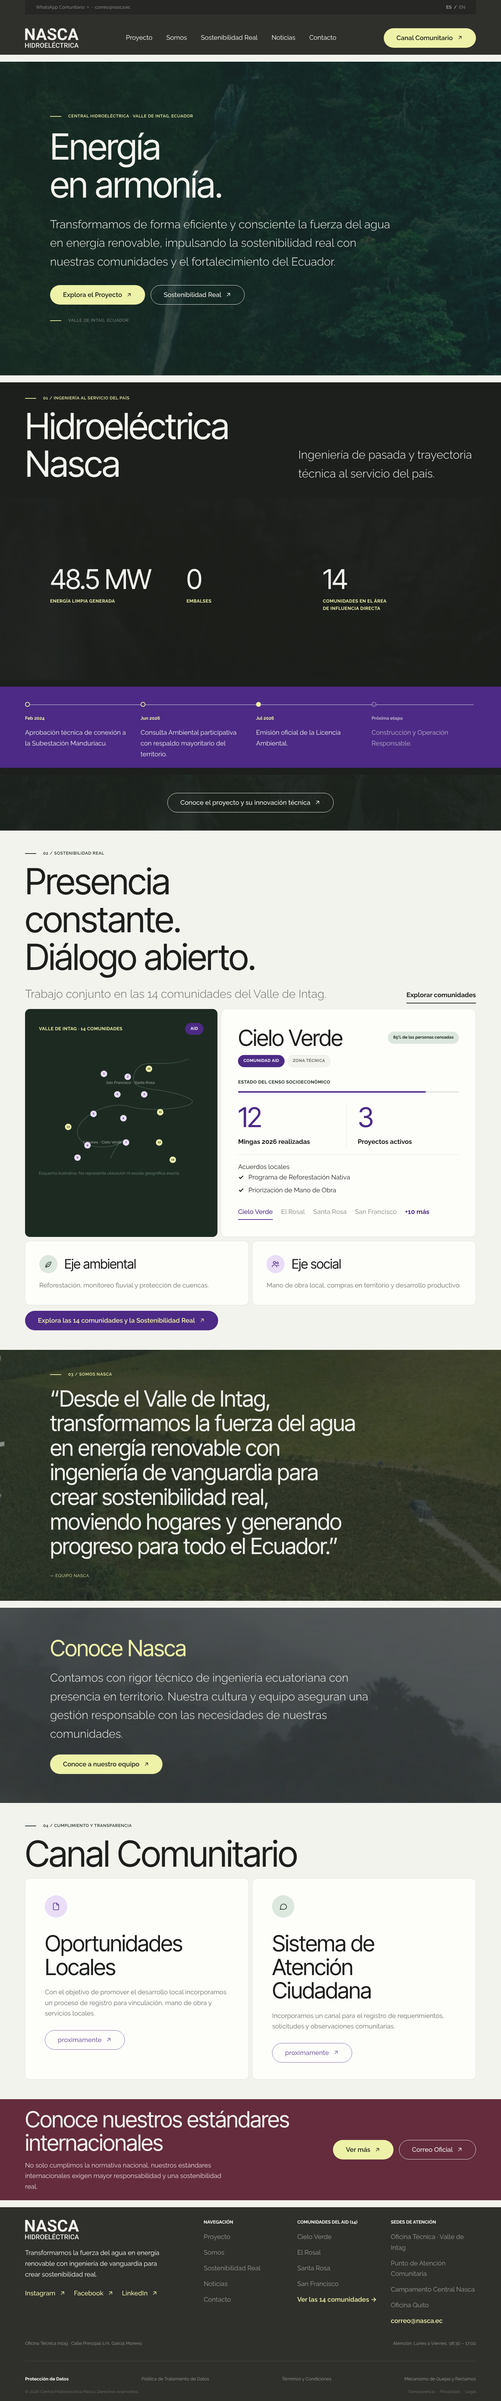
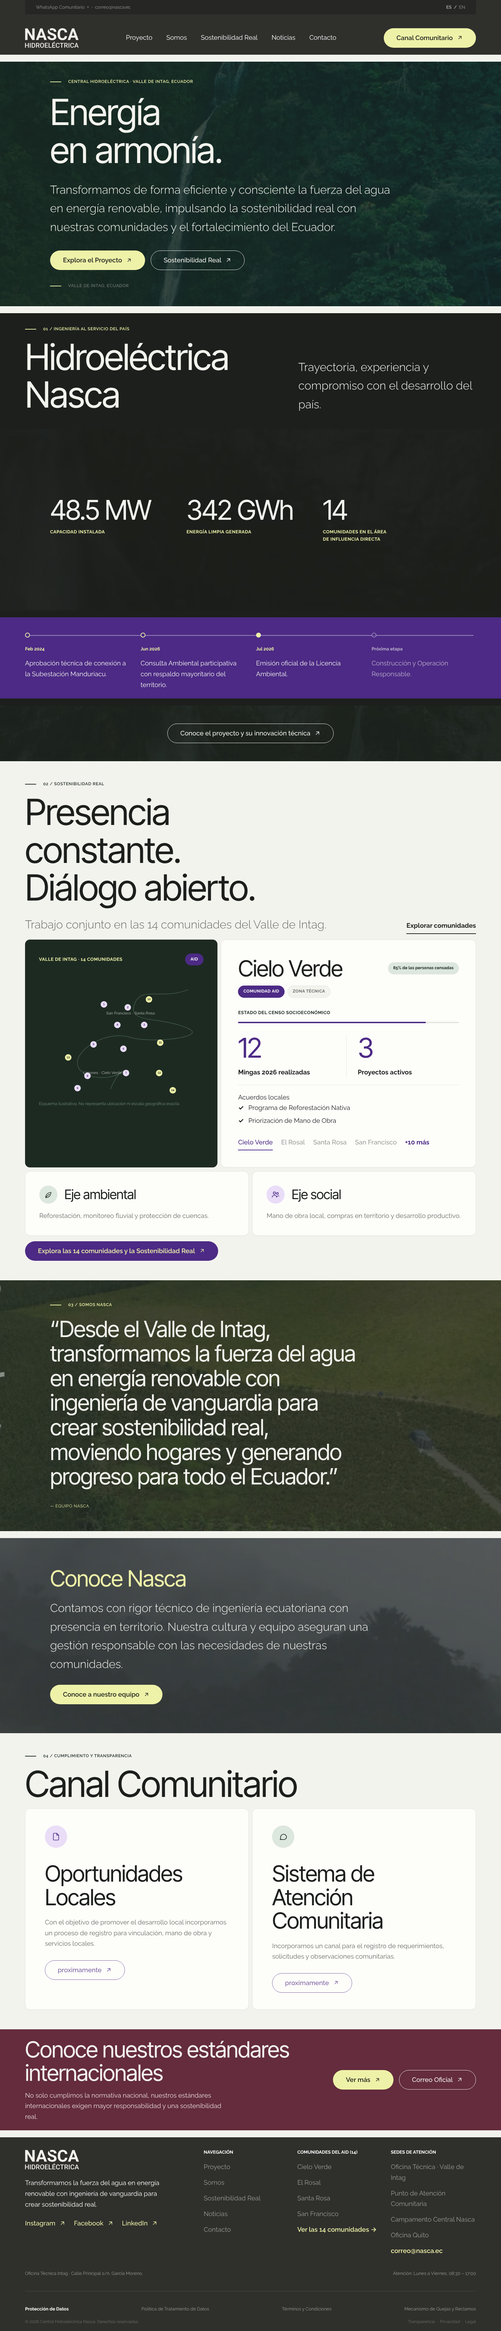
Responsive completo (tablet y móvil) y textos del home según el diseño
Cabecera: menú centrado bajo el logo en tablet, fila única con hamburguesa
en móvil y CTA dentro del menú desplegable. Pie en 2+2 columnas en tablet
y una en móvil. Mapa apilado sobre la tarjeta de comunidad, CTA vino en
una columna y cifras sin cortes de línea en anchos intermedios.

Textos del home alineados con el PDF del diseño: cifras 48.5 MW /
342 GWh / 14, subtítulo de la sección 01 y tarjeta Sistema de Atención
Comunitaria. Hero más compacto. Preview estático regenerado.

Claude-Session: https://claude.ai/code/session_01R18yvyAcKG3W4xP4nnuw73

diff --git a/docs/index.html b/docs/index.html
@@ -183,7 +183,7 @@ ol,ul{box-sizing:border-box}:root :where(.wp-block-list.has-background){padding:
 							<div class="wp-block-navigation__responsive-container-content" 
 				data-wp-watch="callbacks.focusFirstElement"
 			 id="modal-1-content">
-								<ul class="wp-block-navigation__container is-responsive items-justified-center wp-block-navigation"><li class=" wp-block-navigation-item wp-block-navigation-link"><a class="wp-block-navigation-item__content"  href="/proyecto/"><span class="wp-block-navigation-item__label">Proyecto</span></a></li><li class=" wp-block-navigation-item wp-block-navigation-link"><a class="wp-block-navigation-item__content"  href="/somos/"><span class="wp-block-navigation-item__label">Somos</span></a></li><li class=" wp-block-navigation-item wp-block-navigation-link"><a class="wp-block-navigation-item__content"  href="/sostenibilidad-real/"><span class="wp-block-navigation-item__label">Sostenibilidad Real</span></a></li><li class=" wp-block-navigation-item wp-block-navigation-link"><a class="wp-block-navigation-item__content"  href="/noticias/"><span class="wp-block-navigation-item__label">Noticias</span></a></li><li class=" wp-block-navigation-item wp-block-navigation-link"><a class="wp-block-navigation-item__content"  href="/contacto/"><span class="wp-block-navigation-item__label">Contacto</span></a></li></ul>
+								<ul class="wp-block-navigation__container is-responsive items-justified-center wp-block-navigation"><li class=" wp-block-navigation-item wp-block-navigation-link"><a class="wp-block-navigation-item__content"  href="/proyecto/"><span class="wp-block-navigation-item__label">Proyecto</span></a></li><li class=" wp-block-navigation-item wp-block-navigation-link"><a class="wp-block-navigation-item__content"  href="/somos/"><span class="wp-block-navigation-item__label">Somos</span></a></li><li class=" wp-block-navigation-item wp-block-navigation-link"><a class="wp-block-navigation-item__content"  href="/sostenibilidad-real/"><span class="wp-block-navigation-item__label">Sostenibilidad Real</span></a></li><li class=" wp-block-navigation-item wp-block-navigation-link"><a class="wp-block-navigation-item__content"  href="/noticias/"><span class="wp-block-navigation-item__label">Noticias</span></a></li><li class=" wp-block-navigation-item wp-block-navigation-link"><a class="wp-block-navigation-item__content"  href="/contacto/"><span class="wp-block-navigation-item__label">Contacto</span></a></li><li class=" wp-block-navigation-item nasca-nav-cta wp-block-navigation-link"><a class="wp-block-navigation-item__content"  href="/canal-comunitario/"><span class="wp-block-navigation-item__label">Canal Comunitario</span></a></li></ul>
 							</div>
 						</div>
 					</div>
@@ -207,7 +207,7 @@ ol,ul{box-sizing:border-box}:root :where(.wp-block-list.has-background){padding:
 
 <main class="wp-block-group is-layout-flow wp-block-group-is-layout-flow" style="padding-left:0;padding-right:0">
 	
-<div class="wp-block-cover is-style-hero has-custom-content-position is-position-center-left" style="padding-top:var(--wp--preset--spacing--60);padding-right:var(--wp--custom--gutter);padding-bottom:var(--wp--preset--spacing--60);padding-left:var(--wp--custom--gutter);min-height:100vh;aspect-ratio:unset;"><img class="wp-block-cover__image-background" alt="Cascada en el Valle de Intag" src="./wp-content/themes/nasca-hidroelectrica/assets/images/bg-hero.jpg" data-object-fit="cover"/><span aria-hidden="true" class="wp-block-cover__background has-contrast-3-background-color has-background-dim-60 has-background-dim"></span><div class="wp-block-cover__inner-container has-global-padding is-content-justification-left is-layout-constrained wp-container-core-cover-is-layout-55af1896 wp-block-cover-is-layout-constrained">
+<div class="wp-block-cover is-style-hero has-custom-content-position is-position-center-left" style="padding-top:var(--wp--preset--spacing--60);padding-right:var(--wp--custom--gutter);padding-bottom:var(--wp--preset--spacing--60);padding-left:var(--wp--custom--gutter);min-height:78vh;aspect-ratio:unset;"><img class="wp-block-cover__image-background" alt="Cascada en el Valle de Intag" src="./wp-content/themes/nasca-hidroelectrica/assets/images/bg-hero.jpg" data-object-fit="cover"/><span aria-hidden="true" class="wp-block-cover__background has-contrast-3-background-color has-background-dim-60 has-background-dim"></span><div class="wp-block-cover__inner-container has-global-padding is-content-justification-left is-layout-constrained wp-container-core-cover-is-layout-55af1896 wp-block-cover-is-layout-constrained">
 
 	
 	<p class="is-style-eyebrow has-accent-color has-text-color">Central Hidroeléctrica · Valle de Intag, Ecuador</p>
@@ -259,7 +259,7 @@ ol,ul{box-sizing:border-box}:root :where(.wp-block-list.has-background){padding:
 			
 			<div class="wp-block-column is-vertically-aligned-bottom is-layout-flow wp-block-column-is-layout-flow" style="flex-basis:40%">
 				
-				<p class="nasca-max-36 has-large-font-size" style="font-weight:300">Ingeniería de pasada y trayectoria técnica al servicio del país.</p>
+				<p class="nasca-max-36 has-large-font-size" style="font-weight:300">Trayectoria, experiencia y compromiso con el desarrollo del país.</p>
 				
 			</div>
 			
@@ -275,13 +275,13 @@ ol,ul{box-sizing:border-box}:root :where(.wp-block-list.has-background){padding:
 			
 			<div class="wp-block-column is-layout-flow wp-block-column-is-layout-flow">
 				<h3 class="wp-block-heading is-style-stat has-base-color has-text-color">48.5 MW</h3>
-				<p class="is-style-stat-label has-accent-color has-text-color">Energía limpia generada</p>
+				<p class="is-style-stat-label has-accent-color has-text-color">Capacidad instalada</p>
 			</div>
 			
 			
 			<div class="wp-block-column is-layout-flow wp-block-column-is-layout-flow">
-				<h3 class="wp-block-heading is-style-stat has-base-color has-text-color">0</h3>
-				<p class="is-style-stat-label has-accent-color has-text-color">Embalses</p>
+				<h3 class="wp-block-heading is-style-stat has-base-color has-text-color">342 GWh</h3>
+				<p class="is-style-stat-label has-accent-color has-text-color">Energía limpia generada</p>
 			</div>
 			
 			
@@ -366,7 +366,7 @@ ol,ul{box-sizing:border-box}:root :where(.wp-block-list.has-background){padding:
 	
 
 	
-	<div class="wp-block-columns is-layout-flex wp-container-core-columns-is-layout-9a9a6c92 wp-block-columns-is-layout-flex" style="margin-top:var(--wp--preset--spacing--40)">
+	<div class="wp-block-columns nasca-sost-grid is-layout-flex wp-container-core-columns-is-layout-9a9a6c92 wp-block-columns-is-layout-flex" style="margin-top:var(--wp--preset--spacing--40)">
 
 		
 		<div class="wp-block-column is-layout-flow wp-block-column-is-layout-flow" style="flex-basis:43%">
@@ -610,7 +610,7 @@ ol,ul{box-sizing:border-box}:root :where(.wp-block-list.has-background){padding:
 					<svg viewBox="0 0 24 24" fill="none" stroke="currentColor" stroke-width="1.6" stroke-linecap="round" stroke-linejoin="round" aria-hidden="true"><path d="M21 12a8 8 0 0 1-11.6 7.1L4 20l1.1-4.6A8 8 0 1 1 21 12z"/></svg>
 				</div>
 				
-				<h3 class="wp-block-heading has-xx-large-font-size" style="margin-top:2.5rem">Sistema de Atención Ciudadana</h3>
+				<h3 class="wp-block-heading has-xx-large-font-size" style="margin-top:2.5rem">Sistema de Atención Comunitaria</h3>
 				<p class="has-text-muted-color has-text-color" style="margin-top:1.5rem">Incorporamos un canal para el registro de requerimientos, solicitudes y observaciones comunitarias.</p>
 				
 				<div class="wp-block-buttons is-layout-flex wp-block-buttons-is-layout-flex" style="margin-top:2rem">
@@ -629,7 +629,7 @@ ol,ul{box-sizing:border-box}:root :where(.wp-block-list.has-background){padding:
 
 
 	
-<section class="wp-block-group has-base-color has-accent-3-background-color has-text-color has-background has-global-padding is-layout-constrained wp-container-core-group-is-layout-3da16935 wp-block-group-is-layout-constrained" style="padding-top:var(--wp--preset--spacing--50);padding-right:var(--wp--custom--gutter);padding-bottom:var(--wp--preset--spacing--50);padding-left:var(--wp--custom--gutter)">
+<section class="wp-block-group nasca-cta has-base-color has-accent-3-background-color has-text-color has-background has-global-padding is-layout-constrained wp-container-core-group-is-layout-3da16935 wp-block-group-is-layout-constrained" style="padding-top:var(--wp--preset--spacing--50);padding-right:var(--wp--custom--gutter);padding-bottom:var(--wp--preset--spacing--50);padding-left:var(--wp--custom--gutter)">
 	
 	<div class="wp-block-columns are-vertically-aligned-center is-layout-flex wp-container-core-columns-is-layout-28f84493 wp-block-columns-is-layout-flex">
 		

diff --git a/docs/wp-content/themes/nasca-hidroelectrica/assets/css/theme.css b/docs/wp-content/themes/nasca-hidroelectrica/assets/css/theme.css
@@ -264,3 +264,68 @@ h2.is-style-stat, h3.is-style-stat {
 @media (max-width: 781px) {
   .nasca-divider-left { border-left: 0; padding-left: 0; border-top: 1px solid var(--wp--preset--color--line); padding-top: 1.5rem; }
 }
+
+/* =========================================================
+   Responsive — tablet (≤1100px) y móvil (≤781px / ≤480px)
+   ========================================================= */
+.is-style-stat, h2.is-style-stat, h3.is-style-stat, h4.is-style-stat { white-space: nowrap; }
+
+@media (max-width: 1100px) {
+  /* Cabecera: logo + botón en la primera fila, menú centrado debajo */
+  .site-header .wp-block-navigation { order: 3; flex-basis: 100%; justify-content: center; }
+  .site-header .wp-block-navigation .wp-block-navigation__container { justify-content: center; }
+  .site-header .wp-block-buttons { margin-left: auto; }
+  /* Cifras un poco más pequeñas */
+  .is-style-stat, h2.is-style-stat, h3.is-style-stat { font-size: clamp(2.4rem, 5.2vw, 4.5rem); }
+  /* Títulos de tarjeta: no partir palabras */
+  .is-style-card .has-xx-large-font-size { font-size: clamp(1.7rem, 3.6vw, 2.75rem) !important; }
+  /* Mapa encima de la tarjeta de comunidad */
+  .nasca-sost-grid.wp-block-columns { flex-wrap: wrap !important; }
+  .nasca-sost-grid > .wp-block-column { flex-basis: 100% !important; }
+  .nasca-sost-grid .nasca-map { min-height: 0; }
+  /* CTA vino: texto arriba, botones abajo a la izquierda */
+  .nasca-cta .wp-block-columns { flex-wrap: wrap !important; }
+  .nasca-cta .wp-block-column { flex-basis: 100% !important; }
+  .nasca-cta .wp-block-buttons { justify-content: flex-start; margin-top: .5rem; }
+  /* Pie: 2 + 2 columnas */
+  .site-footer > .wp-block-columns { flex-wrap: wrap !important; row-gap: var(--wp--preset--spacing--40); }
+  .site-footer > .wp-block-columns > .wp-block-column { flex-basis: calc(50% - var(--wp--preset--spacing--50) / 2) !important; }
+  .site-footer > .wp-block-columns > .wp-block-column:first-child { flex-basis: 100% !important; }
+}
+
+@media (max-width: 781px) {
+  /* Cabecera compacta: logo a la izquierda, botón y hamburguesa a la derecha, en una sola fila */
+  .site-header > .wp-block-group:last-child { flex-wrap: nowrap !important; gap: .75rem; }
+  .site-header .nasca-logo { flex: 1 1 auto; min-width: 0; }
+  .site-header .nasca-logo .wp-block-site-logo img { max-height: 40px; }
+  .site-header .wp-block-site-title { font-size: 1.5rem; }
+  .site-header .wp-block-site-tagline { font-size: .65rem; }
+  .site-header .wp-block-buttons { order: 2; margin-left: 0; flex: 0 0 auto; }
+  .site-header .wp-block-buttons .wp-block-button__link { padding: .7rem 1.1rem; font-size: .85rem; }
+  .site-header .wp-block-navigation { order: 3; flex: 0 0 auto; }
+  .nasca-topbar { gap: .35rem 1rem; }
+  /* Pie en una columna */
+  .site-footer > .wp-block-columns > .wp-block-column { flex-basis: 100% !important; }
+  .site-footer .nasca-legal-links { gap: .75rem 1.5rem; }
+  /* Tarjetas: menos relleno */
+  .is-style-card { padding: 2rem 1.5rem !important; }
+  .nasca-map { padding: 1.75rem 1.5rem 1.5rem !important; }
+  /* Hero y secciones: menos altura */
+  .is-style-hero.wp-block-cover { min-height: 70vh !important; }
+  .nasca-quote { font-size: clamp(1.75rem, 7vw, 2.6rem); }
+  .wp-block-cover { min-height: 0 !important; }
+}
+
+@media (max-width: 480px) {
+  .site-header .wp-block-buttons { display: none; }           /* el CTA sigue en el menú desplegable y en el home */
+  .site-header .nasca-logo .wp-block-site-logo img { max-height: 36px; }
+  .is-style-stat, h2.is-style-stat, h3.is-style-stat { font-size: 2.6rem; }
+  .has-display-font-size, h1 { font-size: clamp(2.6rem, 12vw, 3.4rem) !important; }
+  .wp-block-buttons .wp-block-button { width: 100%; }
+  .wp-block-buttons .wp-block-button__link { width: 100%; justify-content: center; display: flex; }
+  .site-header .nasca-topbar p { font-size: .75rem; }
+}
+/* El enlace "Canal Comunitario" del menú solo se ve en el menú desplegable móvil */
+.site-header .wp-block-navigation__container > .nasca-nav-cta { display: none; }
+.site-header .is-menu-open .wp-block-navigation__container > .nasca-nav-cta { display: block; }
+.site-header .is-menu-open .nasca-nav-cta a { color: var(--wp--preset--color--accent); font-weight: 700; }

diff --git a/nasca-hidroelectrica/assets/css/theme.css b/nasca-hidroelectrica/assets/css/theme.css
@@ -264,3 +264,68 @@ h2.is-style-stat, h3.is-style-stat {
 @media (max-width: 781px) {
   .nasca-divider-left { border-left: 0; padding-left: 0; border-top: 1px solid var(--wp--preset--color--line); padding-top: 1.5rem; }
 }
+
+/* =========================================================
+   Responsive — tablet (≤1100px) y móvil (≤781px / ≤480px)
+   ========================================================= */
+.is-style-stat, h2.is-style-stat, h3.is-style-stat, h4.is-style-stat { white-space: nowrap; }
+
+@media (max-width: 1100px) {
+  /* Cabecera: logo + botón en la primera fila, menú centrado debajo */
+  .site-header .wp-block-navigation { order: 3; flex-basis: 100%; justify-content: center; }
+  .site-header .wp-block-navigation .wp-block-navigation__container { justify-content: center; }
+  .site-header .wp-block-buttons { margin-left: auto; }
+  /* Cifras un poco más pequeñas */
+  .is-style-stat, h2.is-style-stat, h3.is-style-stat { font-size: clamp(2.4rem, 5.2vw, 4.5rem); }
+  /* Títulos de tarjeta: no partir palabras */
+  .is-style-card .has-xx-large-font-size { font-size: clamp(1.7rem, 3.6vw, 2.75rem) !important; }
+  /* Mapa encima de la tarjeta de comunidad */
+  .nasca-sost-grid.wp-block-columns { flex-wrap: wrap !important; }
+  .nasca-sost-grid > .wp-block-column { flex-basis: 100% !important; }
+  .nasca-sost-grid .nasca-map { min-height: 0; }
+  /* CTA vino: texto arriba, botones abajo a la izquierda */
+  .nasca-cta .wp-block-columns { flex-wrap: wrap !important; }
+  .nasca-cta .wp-block-column { flex-basis: 100% !important; }
+  .nasca-cta .wp-block-buttons { justify-content: flex-start; margin-top: .5rem; }
+  /* Pie: 2 + 2 columnas */
+  .site-footer > .wp-block-columns { flex-wrap: wrap !important; row-gap: var(--wp--preset--spacing--40); }
+  .site-footer > .wp-block-columns > .wp-block-column { flex-basis: calc(50% - var(--wp--preset--spacing--50) / 2) !important; }
+  .site-footer > .wp-block-columns > .wp-block-column:first-child { flex-basis: 100% !important; }
+}
+
+@media (max-width: 781px) {
+  /* Cabecera compacta: logo a la izquierda, botón y hamburguesa a la derecha, en una sola fila */
+  .site-header > .wp-block-group:last-child { flex-wrap: nowrap !important; gap: .75rem; }
+  .site-header .nasca-logo { flex: 1 1 auto; min-width: 0; }
+  .site-header .nasca-logo .wp-block-site-logo img { max-height: 40px; }
+  .site-header .wp-block-site-title { font-size: 1.5rem; }
+  .site-header .wp-block-site-tagline { font-size: .65rem; }
+  .site-header .wp-block-buttons { order: 2; margin-left: 0; flex: 0 0 auto; }
+  .site-header .wp-block-buttons .wp-block-button__link { padding: .7rem 1.1rem; font-size: .85rem; }
+  .site-header .wp-block-navigation { order: 3; flex: 0 0 auto; }
+  .nasca-topbar { gap: .35rem 1rem; }
+  /* Pie en una columna */
+  .site-footer > .wp-block-columns > .wp-block-column { flex-basis: 100% !important; }
+  .site-footer .nasca-legal-links { gap: .75rem 1.5rem; }
+  /* Tarjetas: menos relleno */
+  .is-style-card { padding: 2rem 1.5rem !important; }
+  .nasca-map { padding: 1.75rem 1.5rem 1.5rem !important; }
+  /* Hero y secciones: menos altura */
+  .is-style-hero.wp-block-cover { min-height: 70vh !important; }
+  .nasca-quote { font-size: clamp(1.75rem, 7vw, 2.6rem); }
+  .wp-block-cover { min-height: 0 !important; }
+}
+
+@media (max-width: 480px) {
+  .site-header .wp-block-buttons { display: none; }           /* el CTA sigue en el menú desplegable y en el home */
+  .site-header .nasca-logo .wp-block-site-logo img { max-height: 36px; }
+  .is-style-stat, h2.is-style-stat, h3.is-style-stat { font-size: 2.6rem; }
+  .has-display-font-size, h1 { font-size: clamp(2.6rem, 12vw, 3.4rem) !important; }
+  .wp-block-buttons .wp-block-button { width: 100%; }
+  .wp-block-buttons .wp-block-button__link { width: 100%; justify-content: center; display: flex; }
+  .site-header .nasca-topbar p { font-size: .75rem; }
+}
+/* El enlace "Canal Comunitario" del menú solo se ve en el menú desplegable móvil */
+.site-header .wp-block-navigation__container > .nasca-nav-cta { display: none; }
+.site-header .is-menu-open .wp-block-navigation__container > .nasca-nav-cta { display: block; }
+.site-header .is-menu-open .nasca-nav-cta a { color: var(--wp--preset--color--accent); font-weight: 700; }

diff --git a/nasca-hidroelectrica/parts/header.html b/nasca-hidroelectrica/parts/header.html
@@ -29,6 +29,7 @@
 			<!-- wp:navigation-link {"label":"Sostenibilidad Real","url":"/sostenibilidad-real/","kind":"custom"} /-->
 			<!-- wp:navigation-link {"label":"Noticias","url":"/noticias/","kind":"custom"} /-->
 			<!-- wp:navigation-link {"label":"Contacto","url":"/contacto/","kind":"custom"} /-->
+			<!-- wp:navigation-link {"label":"Canal Comunitario","url":"/canal-comunitario/","kind":"custom","className":"nasca-nav-cta"} /-->
 		<!-- /wp:navigation -->
 
 		<!-- wp:buttons -->

diff --git a/nasca-hidroelectrica/patterns/proyecto.php b/nasca-hidroelectrica/patterns/proyecto.php
@@ -27,7 +27,7 @@ $img = esc_url( get_template_directory_uri() . '/assets/images/bg-stats.jpg' );
 			<!-- wp:column {"verticalAlignment":"bottom","width":"40%"} -->
 			<div class="wp-block-column is-vertically-aligned-bottom" style="flex-basis:40%">
 				<!-- wp:paragraph {"className":"nasca-max-36","fontSize":"large","style":{"typography":{"fontWeight":"300"}}} -->
-				<p class="nasca-max-36 has-large-font-size" style="font-weight:300">Ingeniería de pasada y trayectoria técnica al servicio del país.</p>
+				<p class="nasca-max-36 has-large-font-size" style="font-weight:300">Trayectoria, experiencia y compromiso con el desarrollo del país.</p>
 				<!-- /wp:paragraph -->
 			</div>
 			<!-- /wp:column -->
@@ -36,20 +36,20 @@ $img = esc_url( get_template_directory_uri() . '/assets/images/bg-stats.jpg' );
 	</div>
 	<!-- /wp:group -->
 
-	<!-- wp:cover {"url":"<?php echo $img; ?>","dimRatio":70,"overlayColor":"contrast","isUserOverlayColor":true,"minHeight":520,"style":{"spacing":{"padding":{"top":"var:preset|spacing|60","bottom":"var:preset|spacing|60","left":"var:custom|gutter","right":"var:custom|gutter"}}},"layout":{"type":"constrained","contentSize":"1800px"}} -->
+	<!-- wp:cover {"url":"<?php echo $img; ?>","dimRatio":70,"overlayColor":"contrast","isUserOverlayColor":true,"minHeight":480,"style":{"spacing":{"padding":{"top":"var:preset|spacing|60","bottom":"var:preset|spacing|60","left":"var:custom|gutter","right":"var:custom|gutter"}}},"layout":{"type":"constrained","contentSize":"1800px"}} -->
 	<div class="wp-block-cover" style="padding-top:var(--wp--preset--spacing--60);padding-right:var(--wp--custom--gutter);padding-bottom:var(--wp--preset--spacing--60);padding-left:var(--wp--custom--gutter);min-height:520px"><img class="wp-block-cover__image-background" alt="" src="<?php echo $img; ?>" data-object-fit="cover"/><span aria-hidden="true" class="wp-block-cover__background has-contrast-background-color has-background-dim-70 has-background-dim"></span><div class="wp-block-cover__inner-container">
 		<!-- wp:columns {"style":{"spacing":{"blockGap":{"left":"var:preset|spacing|50"}}}} -->
 		<div class="wp-block-columns">
 			<!-- wp:column -->
 			<div class="wp-block-column">
 				<!-- wp:heading {"level":3,"className":"is-style-stat","textColor":"base"} --><h3 class="wp-block-heading is-style-stat has-base-color has-text-color">48.5 MW</h3><!-- /wp:heading -->
-				<!-- wp:paragraph {"className":"is-style-stat-label","textColor":"accent"} --><p class="is-style-stat-label has-accent-color has-text-color">Energía limpia generada</p><!-- /wp:paragraph -->
+				<!-- wp:paragraph {"className":"is-style-stat-label","textColor":"accent"} --><p class="is-style-stat-label has-accent-color has-text-color">Capacidad instalada</p><!-- /wp:paragraph -->
 			</div>
 			<!-- /wp:column -->
 			<!-- wp:column -->
 			<div class="wp-block-column">
-				<!-- wp:heading {"level":3,"className":"is-style-stat","textColor":"base"} --><h3 class="wp-block-heading is-style-stat has-base-color has-text-color">0</h3><!-- /wp:heading -->
-				<!-- wp:paragraph {"className":"is-style-stat-label","textColor":"accent"} --><p class="is-style-stat-label has-accent-color has-text-color">Embalses</p><!-- /wp:paragraph -->
+				<!-- wp:heading {"level":3,"className":"is-style-stat","textColor":"base"} --><h3 class="wp-block-heading is-style-stat has-base-color has-text-color">342 GWh</h3><!-- /wp:heading -->
+				<!-- wp:paragraph {"className":"is-style-stat-label","textColor":"accent"} --><p class="is-style-stat-label has-accent-color has-text-color">Energía limpia generada</p><!-- /wp:paragraph -->
 			</div>
 			<!-- /wp:column -->
 			<!-- wp:column -->

diff --git a/nasca-hidroelectrica/patterns/hero.php b/nasca-hidroelectrica/patterns/hero.php
@@ -8,8 +8,8 @@
  */
 $img = esc_url( get_template_directory_uri() . '/assets/images/bg-hero.jpg' );
 ?>
-<!-- wp:cover {"url":"<?php echo $img; ?>","dimRatio":60,"overlayColor":"contrast-3","isUserOverlayColor":true,"minHeight":100,"minHeightUnit":"vh","contentPosition":"center left","className":"is-style-hero","style":{"spacing":{"padding":{"top":"var:preset|spacing|60","bottom":"var:preset|spacing|60","left":"var:custom|gutter","right":"var:custom|gutter"}}},"layout":{"type":"constrained","contentSize":"1800px","justifyContent":"left"}} -->
-<div class="wp-block-cover is-style-hero has-custom-content-position is-position-center-left" style="padding-top:var(--wp--preset--spacing--60);padding-right:var(--wp--custom--gutter);padding-bottom:var(--wp--preset--spacing--60);padding-left:var(--wp--custom--gutter);min-height:100vh"><img class="wp-block-cover__image-background" alt="Cascada en el Valle de Intag" src="<?php echo $img; ?>" data-object-fit="cover"/><span aria-hidden="true" class="wp-block-cover__background has-contrast-3-background-color has-background-dim-60 has-background-dim"></span><div class="wp-block-cover__inner-container">
+<!-- wp:cover {"url":"<?php echo $img; ?>","dimRatio":60,"overlayColor":"contrast-3","isUserOverlayColor":true,"minHeight":78,"minHeightUnit":"vh","contentPosition":"center left","className":"is-style-hero","style":{"spacing":{"padding":{"top":"var:preset|spacing|60","bottom":"var:preset|spacing|60","left":"var:custom|gutter","right":"var:custom|gutter"}}},"layout":{"type":"constrained","contentSize":"1800px","justifyContent":"left"}} -->
+<div class="wp-block-cover is-style-hero has-custom-content-position is-position-center-left" style="padding-top:var(--wp--preset--spacing--60);padding-right:var(--wp--custom--gutter);padding-bottom:var(--wp--preset--spacing--60);padding-left:var(--wp--custom--gutter);min-height:78vh"><img class="wp-block-cover__image-background" alt="Cascada en el Valle de Intag" src="<?php echo $img; ?>" data-object-fit="cover"/><span aria-hidden="true" class="wp-block-cover__background has-contrast-3-background-color has-background-dim-60 has-background-dim"></span><div class="wp-block-cover__inner-container">
 
 	<!-- wp:paragraph {"className":"is-style-eyebrow","textColor":"accent"} -->
 	<p class="is-style-eyebrow has-accent-color has-text-color">Central Hidroeléctrica · Valle de Intag, Ecuador</p>

diff --git a/nasca-hidroelectrica/patterns/cta-estandares.php b/nasca-hidroelectrica/patterns/cta-estandares.php
@@ -6,8 +6,8 @@
  * Description: Banda de color vino con título, texto y dos botones.
  */
 ?>
-<!-- wp:group {"tagName":"section","style":{"spacing":{"padding":{"top":"var:preset|spacing|50","bottom":"var:preset|spacing|50","left":"var:custom|gutter","right":"var:custom|gutter"}}},"backgroundColor":"accent-3","textColor":"base","layout":{"type":"constrained","contentSize":"1800px"}} -->
-<section class="wp-block-group has-base-color has-accent-3-background-color has-text-color has-background" style="padding-top:var(--wp--preset--spacing--50);padding-right:var(--wp--custom--gutter);padding-bottom:var(--wp--preset--spacing--50);padding-left:var(--wp--custom--gutter)">
+<!-- wp:group {"tagName":"section","className":"nasca-cta","style":{"spacing":{"padding":{"top":"var:preset|spacing|50","bottom":"var:preset|spacing|50","left":"var:custom|gutter","right":"var:custom|gutter"}}},"backgroundColor":"accent-3","textColor":"base","layout":{"type":"constrained","contentSize":"1800px"}} -->
+<section class="wp-block-group nasca-cta has-base-color has-accent-3-background-color has-text-color has-background" style="padding-top:var(--wp--preset--spacing--50);padding-right:var(--wp--custom--gutter);padding-bottom:var(--wp--preset--spacing--50);padding-left:var(--wp--custom--gutter)">
 	<!-- wp:columns {"verticalAlignment":"center"} -->
 	<div class="wp-block-columns are-vertically-aligned-center">
 		<!-- wp:column {"verticalAlignment":"center","width":"66%"} -->

diff --git a/nasca-hidroelectrica/patterns/canal-comunitario.php b/nasca-hidroelectrica/patterns/canal-comunitario.php
@@ -48,7 +48,7 @@
 					<!-- wp:html --><svg viewBox="0 0 24 24" fill="none" stroke="currentColor" stroke-width="1.6" stroke-linecap="round" stroke-linejoin="round" aria-hidden="true"><path d="M21 12a8 8 0 0 1-11.6 7.1L4 20l1.1-4.6A8 8 0 1 1 21 12z"/></svg><!-- /wp:html -->
 				</div>
 				<!-- /wp:group -->
-				<!-- wp:heading {"level":3,"fontSize":"xx-large","style":{"spacing":{"margin":{"top":"2.5rem"}}}} --><h3 class="wp-block-heading has-xx-large-font-size" style="margin-top:2.5rem">Sistema de Atención Ciudadana</h3><!-- /wp:heading -->
+				<!-- wp:heading {"level":3,"fontSize":"xx-large","style":{"spacing":{"margin":{"top":"2.5rem"}}}} --><h3 class="wp-block-heading has-xx-large-font-size" style="margin-top:2.5rem">Sistema de Atención Comunitaria</h3><!-- /wp:heading -->
 				<!-- wp:paragraph {"textColor":"text-muted","style":{"spacing":{"margin":{"top":"1.5rem"}}}} --><p class="has-text-muted-color has-text-color" style="margin-top:1.5rem">Incorporamos un canal para el registro de requerimientos, solicitudes y observaciones comunitarias.</p><!-- /wp:paragraph -->
 				<!-- wp:buttons {"style":{"spacing":{"margin":{"top":"2rem"}}}} -->
 				<div class="wp-block-buttons" style="margin-top:2rem">

diff --git a/nasca-hidroelectrica/patterns/sostenibilidad.php b/nasca-hidroelectrica/patterns/sostenibilidad.php
@@ -29,8 +29,8 @@ $map = esc_url( get_template_directory_uri() . '/assets/images/mapa-intag.svg' )
 	</div>
 	<!-- /wp:group -->
 
-	<!-- wp:columns {"style":{"spacing":{"margin":{"top":"var:preset|spacing|40"},"blockGap":{"left":"var:preset|spacing|30"}}}} -->
-	<div class="wp-block-columns" style="margin-top:var(--wp--preset--spacing--40)">
+	<!-- wp:columns {"className":"nasca-sost-grid","style":{"spacing":{"margin":{"top":"var:preset|spacing|40"},"blockGap":{"left":"var:preset|spacing|30"}}}} -->
+	<div class="wp-block-columns nasca-sost-grid" style="margin-top:var(--wp--preset--spacing--40)">
 
 		<!-- wp:column {"width":"43%"} -->
 		<div class="wp-block-column" style="flex-basis:43%">
